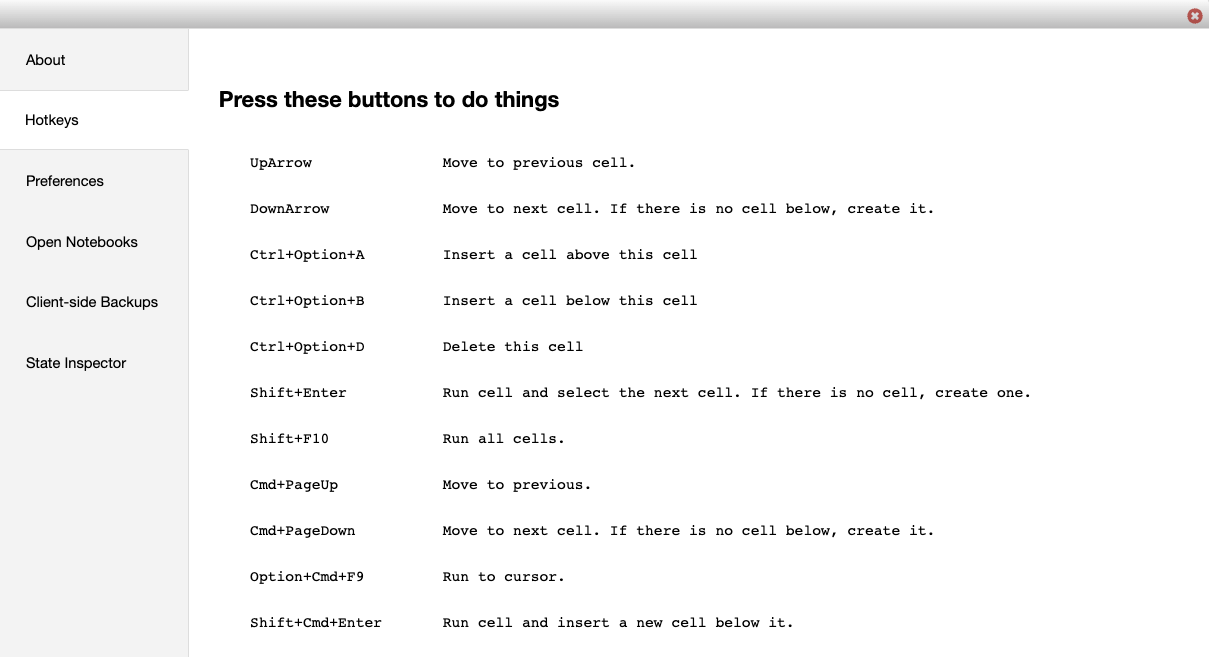
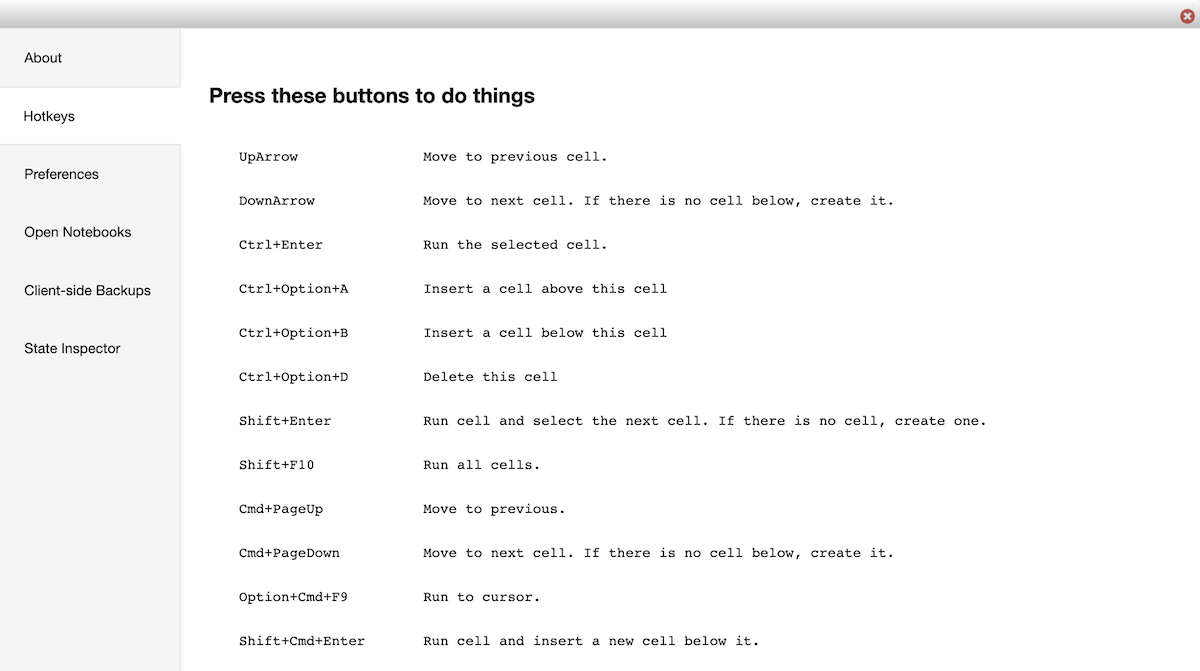
Add run selected cell hotkey

diff --git a/polynote-frontend/polynote/ui/component/notebook/cell.ts b/polynote-frontend/polynote/ui/component/notebook/cell.ts
@@ -413,8 +413,9 @@ export interface HotkeyInfo {
 export const cellHotkeys: Record<string, HotkeyInfo> = {
     [monaco.KeyCode.UpArrow]: {key: "MoveUp", description: "Move to previous cell."},
     [monaco.KeyCode.DownArrow]: {key: "MoveDown", description: "Move to next cell. If there is no cell below, create it."},
-    [monaco.KeyMod.Shift | monaco.KeyCode.Enter]: {key: "RunAndSelectNext", description: "Run cell and select the next cell. If there is no cell, create one."},
-    [monaco.KeyMod.Shift | monaco.KeyMod.CtrlCmd | monaco.KeyCode.Enter]: {key: "RunAndInsertBelow", description: "Run cell and insert a new cell below it."},
+    [monaco.KeyMod.WinCtrl | monaco.KeyCode.Enter]: {key: "RunSelected", description: "Run the selected cell."},
+    [monaco.KeyMod.Shift | monaco.KeyCode.Enter]: {key: "RunAndSelectNext", description: "Run the selected cell and select the next cell. If there is no cell, create one."},
+    [monaco.KeyMod.Shift | monaco.KeyMod.CtrlCmd | monaco.KeyCode.Enter]: {key: "RunAndInsertBelow", description: "Run the selected cell and insert a new cell below it."},
     [monaco.KeyMod.CtrlCmd | monaco.KeyCode.PageUp]: {key: "SelectPrevious", description: "Move to previous."},
     [monaco.KeyMod.CtrlCmd | monaco.KeyCode.PageDown]: {key: "SelectNext", description: "Move to next cell. If there is no cell below, create it."},
     [monaco.KeyMod.WinCtrl | monaco.KeyMod.Alt | monaco.KeyCode.KEY_A]: {key: "InsertAbove", description: "Insert a cell above this cell"},
@@ -619,6 +620,10 @@ abstract class Cell extends Disposable {
             })
             .when("MoveDownJ", () => {
                 this.notebookState.selectCell(this.id, {relative: "below", editing: true})
+            })
+            .when("RunSelected", () => {
+                this.dispatcher.runActiveCell()
+                return ["stopPropagation", "preventDefault"]
             })
             .when("RunAndSelectNext", () => {
                 this.dispatcher.runActiveCell()
